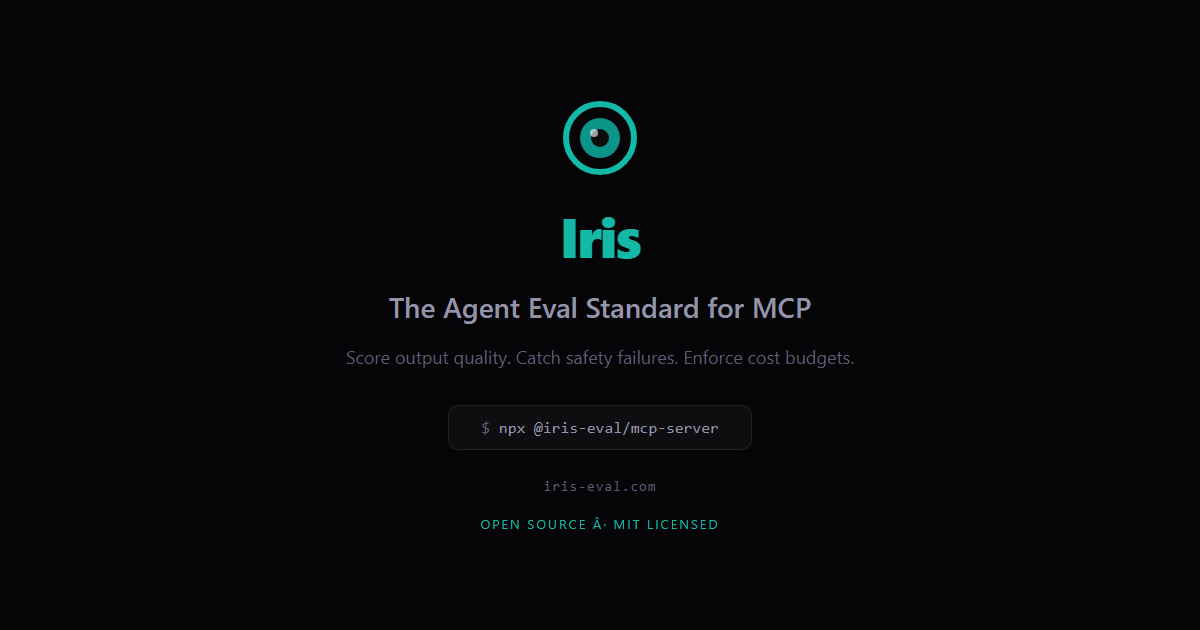
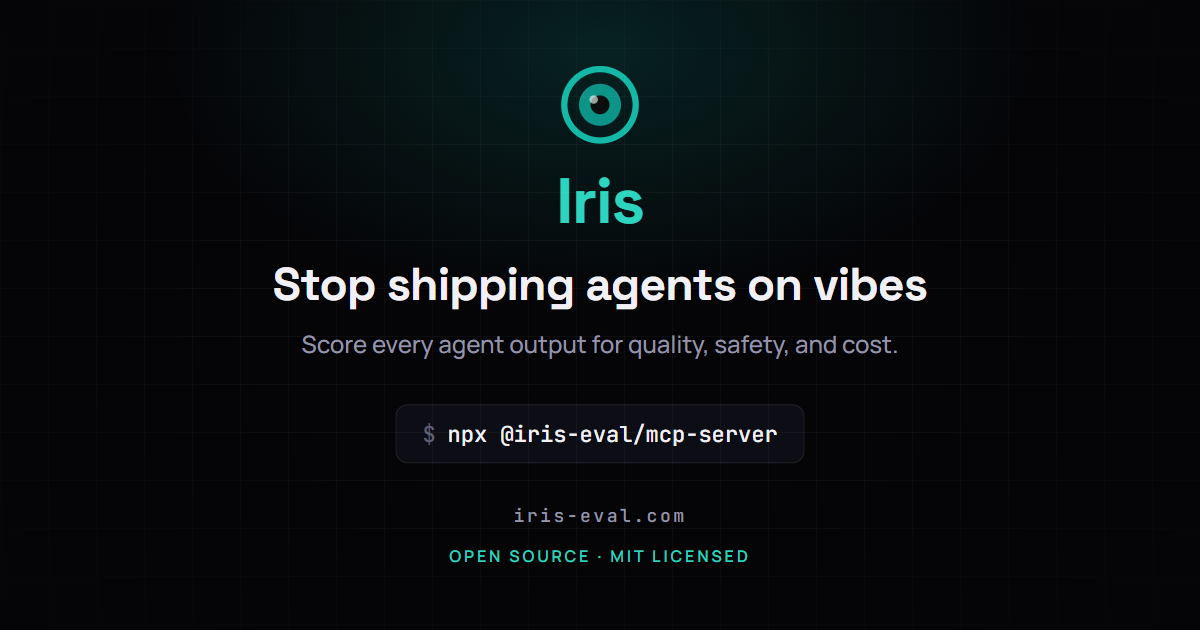
chore(brand): sweep the surfaces the v0.5.0 tagline never reached (#393)
A read-only census of every distribution channel (2026-09-03) found the
surfaces we own current and every surface a stranger shares or installs
from still speaking in the retired voice. This PR fixes the ones that live
in this repo; the third-party listings are handled outside it.

- Share image: /og-social-preview.png still read "The Agent Eval Standard
  for MCP" with a mojibake middle dot, and it is the card for every page on
  the site (layout, blog, compare, learn). Regenerated from the site's own
  tokens and type (Space Grotesk / Manrope / JetBrains Mono, teal on
  #050508) with the current tagline and server.json's description line.
  OG_CACHE_BUST v=3 -> v=4 so scrapers refetch.
- Plugin manifests: claude-plugin/.claude-plugin/plugin.json and
  .claude-plugin/marketplace.json carried no tagline and an em dash that had
  been mis-encoded into three bytes of mojibake. Both now carry the staged
  copy with a clean UTF-8 dash. `claude plugin validate ./claude-plugin
  --strict` passes. (This does not change the Anthropic community catalog
  entry, whose name and description are frozen catalog-side; that is a
  separate correction through the submission form.)
- GitHub Pages: docs/index.html was a second landing page with the
  pre-teal indigo accent, the pre-tagline headline and an old screenshot.
  It is now a redirect to iris-eval.com (meta refresh + canonical +
  noindex), so inbound links keep working and only one landing page exists.
[…]

diff --git a/docs/index.html b/docs/index.html
@@ -1,244 +1,17 @@
-<!DOCTYPE html>
+<!doctype html>
 <html lang="en">
 <head>
-  <meta charset="UTF-8">
-  <meta name="viewport" content="width=device-width, initial-scale=1.0">
+  <meta charset="utf-8">
   <title>Iris — Stop shipping agents on vibes</title>
-  <meta name="description" content="Open-source observability for AI agents. Trace logging, quality evaluation, and cost tracking via the Model Context Protocol.">
-  <style>
-    :root {
-      --bg-primary: #0a0a0b;
-      --bg-secondary: #141416;
-      --bg-tertiary: #1c1c1f;
-      --text-primary: #fafafa;
-      --text-secondary: #a1a1aa;
-      --text-muted: #71717a;
-      --accent: #6366f1;
-      --accent-hover: #818cf8;
-      --accent-success: #22c55e;
-      --accent-tool: #3b82f6;
-      --accent-llm: #a855f7;
-      --border: #27272a;
-      --radius: 12px;
-      --font: -apple-system, BlinkMacSystemFont, 'Segoe UI', Roboto, sans-serif;
-      --mono: 'JetBrains Mono', 'Fira Code', 'Cascadia Code', monospace;
-    }
-    * { box-sizing: border-box; margin: 0; padding: 0; }
-    body {
-      font-family: var(--font);
-      background: var(--bg-primary);
-      color: var(--text-primary);
-      line-height: 1.6;
-      -webkit-font-smoothing: antialiased;
-    }
-    a { color: var(--accent); text-decoration: none; }
-    a:hover { color: var(--accent-hover); }
-
-    .container { max-width: 1100px; margin: 0 auto; padding: 0 24px; }
-
-    /* Hero */
-    .hero {
-      text-align: center;
-      padding: 100px 24px 80px;
-    }
-    .hero h1 {
-      font-size: 3.2rem;
-      font-weight: 800;
-      letter-spacing: -0.03em;
-      margin-bottom: 16px;
-    }
-    .hero h1 span { color: var(--accent); }
-    .hero p {
-      font-size: 1.25rem;
-      color: var(--text-secondary);
-      max-width: 600px;
-      margin: 0 auto 40px;
-    }
-    .hero-buttons { display: flex; gap: 16px; justify-content: center; flex-wrap: wrap; }
-    .btn {
-      display: inline-block;
-      padding: 14px 32px;
-      border-radius: 8px;
-      font-size: 1rem;
-      font-weight: 600;
-      transition: all 150ms ease;
-    }
-    .btn-primary { background: var(--accent); color: white; }
-    .btn-primary:hover { background: var(--accent-hover); color: white; }
-    .btn-secondary { background: var(--bg-tertiary); color: var(--text-primary); border: 1px solid var(--border); }
-    .btn-secondary:hover { background: var(--border); color: var(--text-primary); }
-
-    /* Features */
-    .features {
-      display: grid;
-      grid-template-columns: repeat(auto-fit, minmax(300px, 1fr));
-      gap: 24px;
-      padding: 60px 0;
-    }
-    .feature {
-      background: var(--bg-secondary);
-      border: 1px solid var(--border);
-      border-radius: var(--radius);
-      padding: 32px;
-    }
-    .feature-icon {
-      display: inline-block;
-      width: 40px;
-      height: 40px;
-      border-radius: 8px;
-      margin-bottom: 16px;
-      line-height: 40px;
-      text-align: center;
-      font-size: 1.2rem;
-    }
-    .feature h3 { font-size: 1.2rem; margin-bottom: 8px; }
-    .feature p { color: var(--text-secondary); font-size: 0.95rem; }
-
-    /* Code */
-    .quickstart {
-      padding: 60px 0;
-      text-align: center;
-    }
-    .quickstart h2 { font-size: 2rem; margin-bottom: 8px; }
-    .quickstart .subtitle { color: var(--text-secondary); margin-bottom: 32px; }
-    .code-block {
-      background: var(--bg-secondary);
-      border: 1px solid var(--border);
-      border-radius: var(--radius);
-      padding: 24px 32px;
-      text-align: left;
-      max-width: 600px;
-      margin: 0 auto;
-      font-family: var(--mono);
-      font-size: 0.9rem;
-      color: var(--text-primary);
-      overflow-x: auto;
-    }
-    .code-block .comment { color: var(--text-muted); }
-    .code-block .cmd { color: var(--accent-success); }
-
-    /* Screenshot */
-    .screenshot-section {
-      padding: 60px 0;
-      text-align: center;
-    }
-    .screenshot-section h2 { font-size: 2rem; margin-bottom: 32px; }
-    .screenshot-placeholder {
-      background: var(--bg-secondary);
-      border: 1px solid var(--border);
-      border-radius: var(--radius);
-      padding: 80px 40px;
-      color: var(--text-muted);
-      font-size: 1.1rem;
-    }
-
-    /* Works With */
-    .works-with {
-      padding: 60px 0;
-      text-align: center;
-    }
-    .works-with h2 { font-size: 2rem; margin-bottom: 32px; }
-    .works-with-grid {
-      display: flex;
-      gap: 32px;
-      justify-content: center;
-      flex-wrap: wrap;
-    }
-    .works-with-item {
-      background: var(--bg-secondary);
-      border: 1px solid var(--border);
-      border-radius: 8px;
-      padding: 16px 24px;
-      color: var(--text-secondary);
-      font-size: 0.95rem;
-      font-weight: 500;
-    }
-
-    /* Footer */
-    footer {
-      border-top: 1px solid var(--border);
-      padding: 40px 24px;
-      text-align: center;
-      color: var(--text-muted);
-      font-size: 0.85rem;
-    }
-    footer a { color: var(--text-secondary); }
-
-    @media (max-width: 640px) {
-      .hero h1 { font-size: 2.2rem; }
-      .hero p { font-size: 1.05rem; }
-      .features { grid-template-columns: 1fr; }
-    }
-  </style>
+  <meta name="robots" content="noindex">
+  <meta http-equiv="refresh" content="0; url=https://iris-eval.com/">
+  <link rel="canonical" href="https://iris-eval.com/">
+  <!-- This GitHub Pages page used to be a second landing page with its own
+       (pre-teal, pre-tagline) copy. Two landing pages drift; the site at
+       iris-eval.com is the only one now. Links that point here keep working. -->
+  <script>location.replace("https://iris-eval.com/");</script>
 </head>
-<body>
-  <div class="container">
-    <section class="hero">
-      <h1>See what your AI agents<br>are <span>actually doing</span>.</h1>
-      <p>Iris is an open-source MCP server for agent trace logging, quality evaluation, and observability. Works with any MCP-compatible framework.</p>
-      <div class="hero-buttons">
-        <a href="https://github.com/iris-eval/mcp-server#quickstart" class="btn btn-primary">Get Started</a>
-        <a href="https://github.com/iris-eval/mcp-server" class="btn btn-secondary">View on GitHub</a>
-      </div>
-    </section>
-
-    <section class="features">
-      <div class="feature">
-        <div class="feature-icon" style="background: rgba(59,130,246,0.15); color: #3b82f6;">T</div>
-        <h3>Trace Logging</h3>
-        <p>Log every agent execution with spans, tool calls, token usage, and cost. Structured traces with parent-child span relationships, just like OpenTelemetry.</p>
-      </div>
-      <div class="feature">
-        <div class="feature-icon" style="background: rgba(168,85,247,0.15); color: #a855f7;">E</div>
-        <h3>Quality Evaluation</h3>
-        <p>Score agent outputs against 13 built-in rules for completeness, relevance, safety, and cost. Add custom rules with regex, keywords, or JSON schema validation.</p>
-      </div>
-      <div class="feature">
-        <div class="feature-icon" style="background: rgba(34,197,94,0.15); color: #22c55e;">O</div>
-        <h3>Observability Dashboard</h3>
-        <p>Dark-mode web dashboard with real-time trace viewer, span trees, evaluation results, and summary charts. Self-hosted, no cloud dependency.</p>
-      </div>
-    </section>
-
-    <section class="quickstart">
-      <h2>Up and running in 60 seconds</h2>
-      <p class="subtitle">One command to install. One command to start.</p>
-      <div class="code-block">
-        <span class="comment"># Install and start</span><br>
-        <span class="cmd">npx</span> @iris-eval/mcp-server --dashboard<br><br>
-        <span class="comment"># Or add to Claude Desktop config</span><br>
-        { "mcpServers": { "iris": { "command": "<span class="cmd">npx</span>",<br>
-        &nbsp;&nbsp;"args": ["@iris-eval/mcp-server"] } } }
-      </div>
-    </section>
-
-    <section class="screenshot-section">
-      <h2>Built for developers</h2>
-      <img src="assets/dashboard-overview.png" alt="Iris Dashboard" style="width: 100%; border-radius: var(--radius); border: 1px solid var(--border);" />
-    </section>
-
-    <section class="works-with">
-      <h2>Works with any MCP-compatible agent</h2>
-      <div class="works-with-grid">
-        <div class="works-with-item">Claude Desktop</div>
-        <div class="works-with-item">Cursor</div>
-        <div class="works-with-item">LangChain</div>
-        <div class="works-with-item">CrewAI</div>
-        <div class="works-with-item">AutoGen</div>
-        <div class="works-with-item">Custom Agents</div>
-      </div>
-    </section>
-  </div>
-
-  <footer>
-    <div class="container">
-      <p>
-        Iris is open source under the MIT License.
-        <a href="https://github.com/iris-eval/mcp-server">GitHub</a> &middot;
-        <a href="https://npmjs.com/package/@iris-eval/mcp-server">npm</a> &middot;
-        <a href="https://github.com/iris-eval/mcp-server/blob/main/LICENSE">License</a>
-      </p>
-    </div>
-  </footer>
+<body style="font-family: system-ui, sans-serif; padding: 2rem; color: #0a0f0e; background: #fafcfc;">
+  <p>Iris moved to <a href="https://iris-eval.com/">iris-eval.com</a>.</p>
 </body>
 </html>

diff --git a/website/src/lib/og.ts b/website/src/lib/og.ts
@@ -1,2 +1,2 @@
-export const OG_CACHE_BUST = "v=3";
+export const OG_CACHE_BUST = "v=4";
 export const OG_IMAGE_URL = `/og-social-preview.png?${OG_CACHE_BUST}`;

diff --git a/docs/blog/007-how-to-evaluate-agent-output-without-llm.md b/docs/blog/007-how-to-evaluate-agent-output-without-llm.md
@@ -225,6 +225,9 @@ This is where the picture comes together. You are not reading logs. You are look
 
 ## When You Still Need LLM-as-Judge
 
+> **Editor's note (2026-09):** This section was written before LLM-as-judge existed in Iris. It has shipped since v0.4.0 as the `evaluate_with_llm_judge` tool (five templates, bring your own key, a hard per-eval cost cap), so the routing described below is what Iris does today, not a plan.
+
+
 I am not arguing that heuristic eval replaces LLM-as-judge entirely. There are eval dimensions where you genuinely need semantic understanding: tone, persuasiveness, factual accuracy against a knowledge base, nuanced style conformance. For those, LLM-as-judge makes sense, and it is on our roadmap.
 
 But a surprising number of production eval checks do not need semantic understanding. They need pattern matching. And running those checks in under a millisecond for free instead of in 2 seconds for $0.03 is not a minor optimization — it is a different architecture. You can run heuristic evals on every single agent execution in production without worrying about cost or latency. Try doing that with LLM-as-judge.
